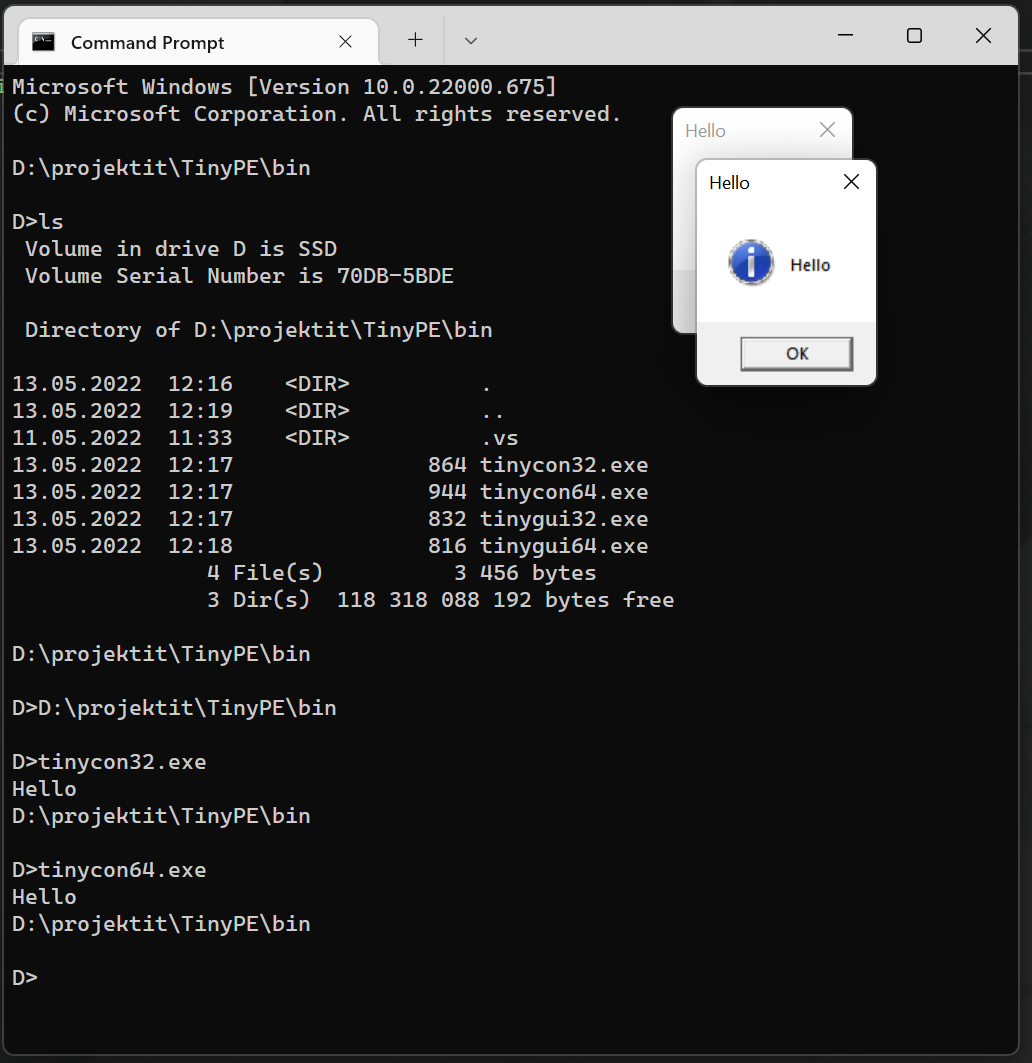
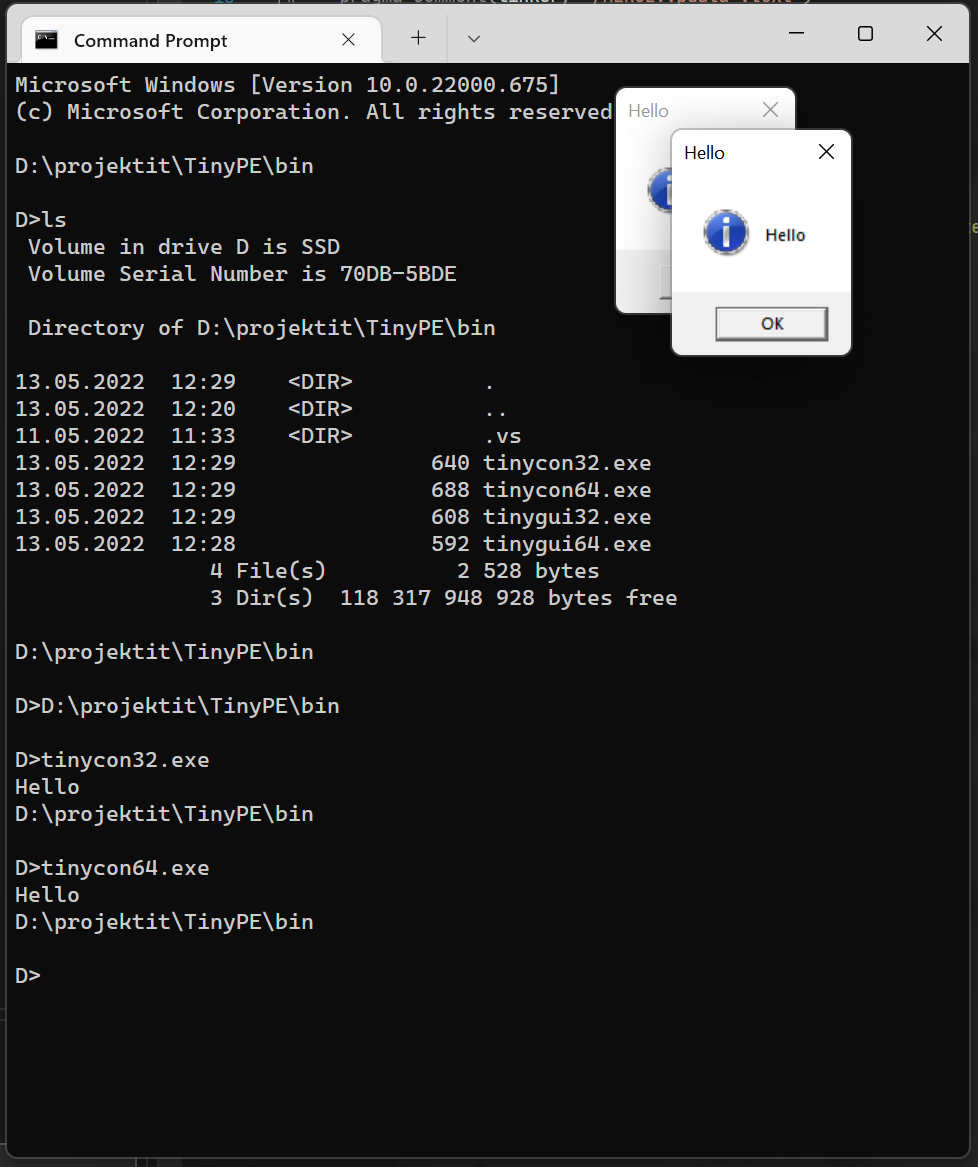
Use another undocumented linker flag (/emitpogophaseinfo) to remove debug info.
Reduces size 224 to 256 bytes depending architecture

Changed region(s): [[0.0, 0.0, 1.0, 0.9934], [0.184, 0.8382, 0.3067, 0.9003]]

diff --git a/README.md b/README.md
@@ -3,8 +3,8 @@ POC Tiny PE - Visual Studio 2022 project
 
 |           | Console    | Gui       |
 |-----------|------------|-----------|
-| 32-bit    | 864 bytes  | 832 bytes |
-| 64-bit    | 944 bytes  | 816 bytes |
+| 32-bit    | 640 bytes  | 608 bytes |
+| 64-bit    | 688 bytes  | 592 bytes |
 
 
 
